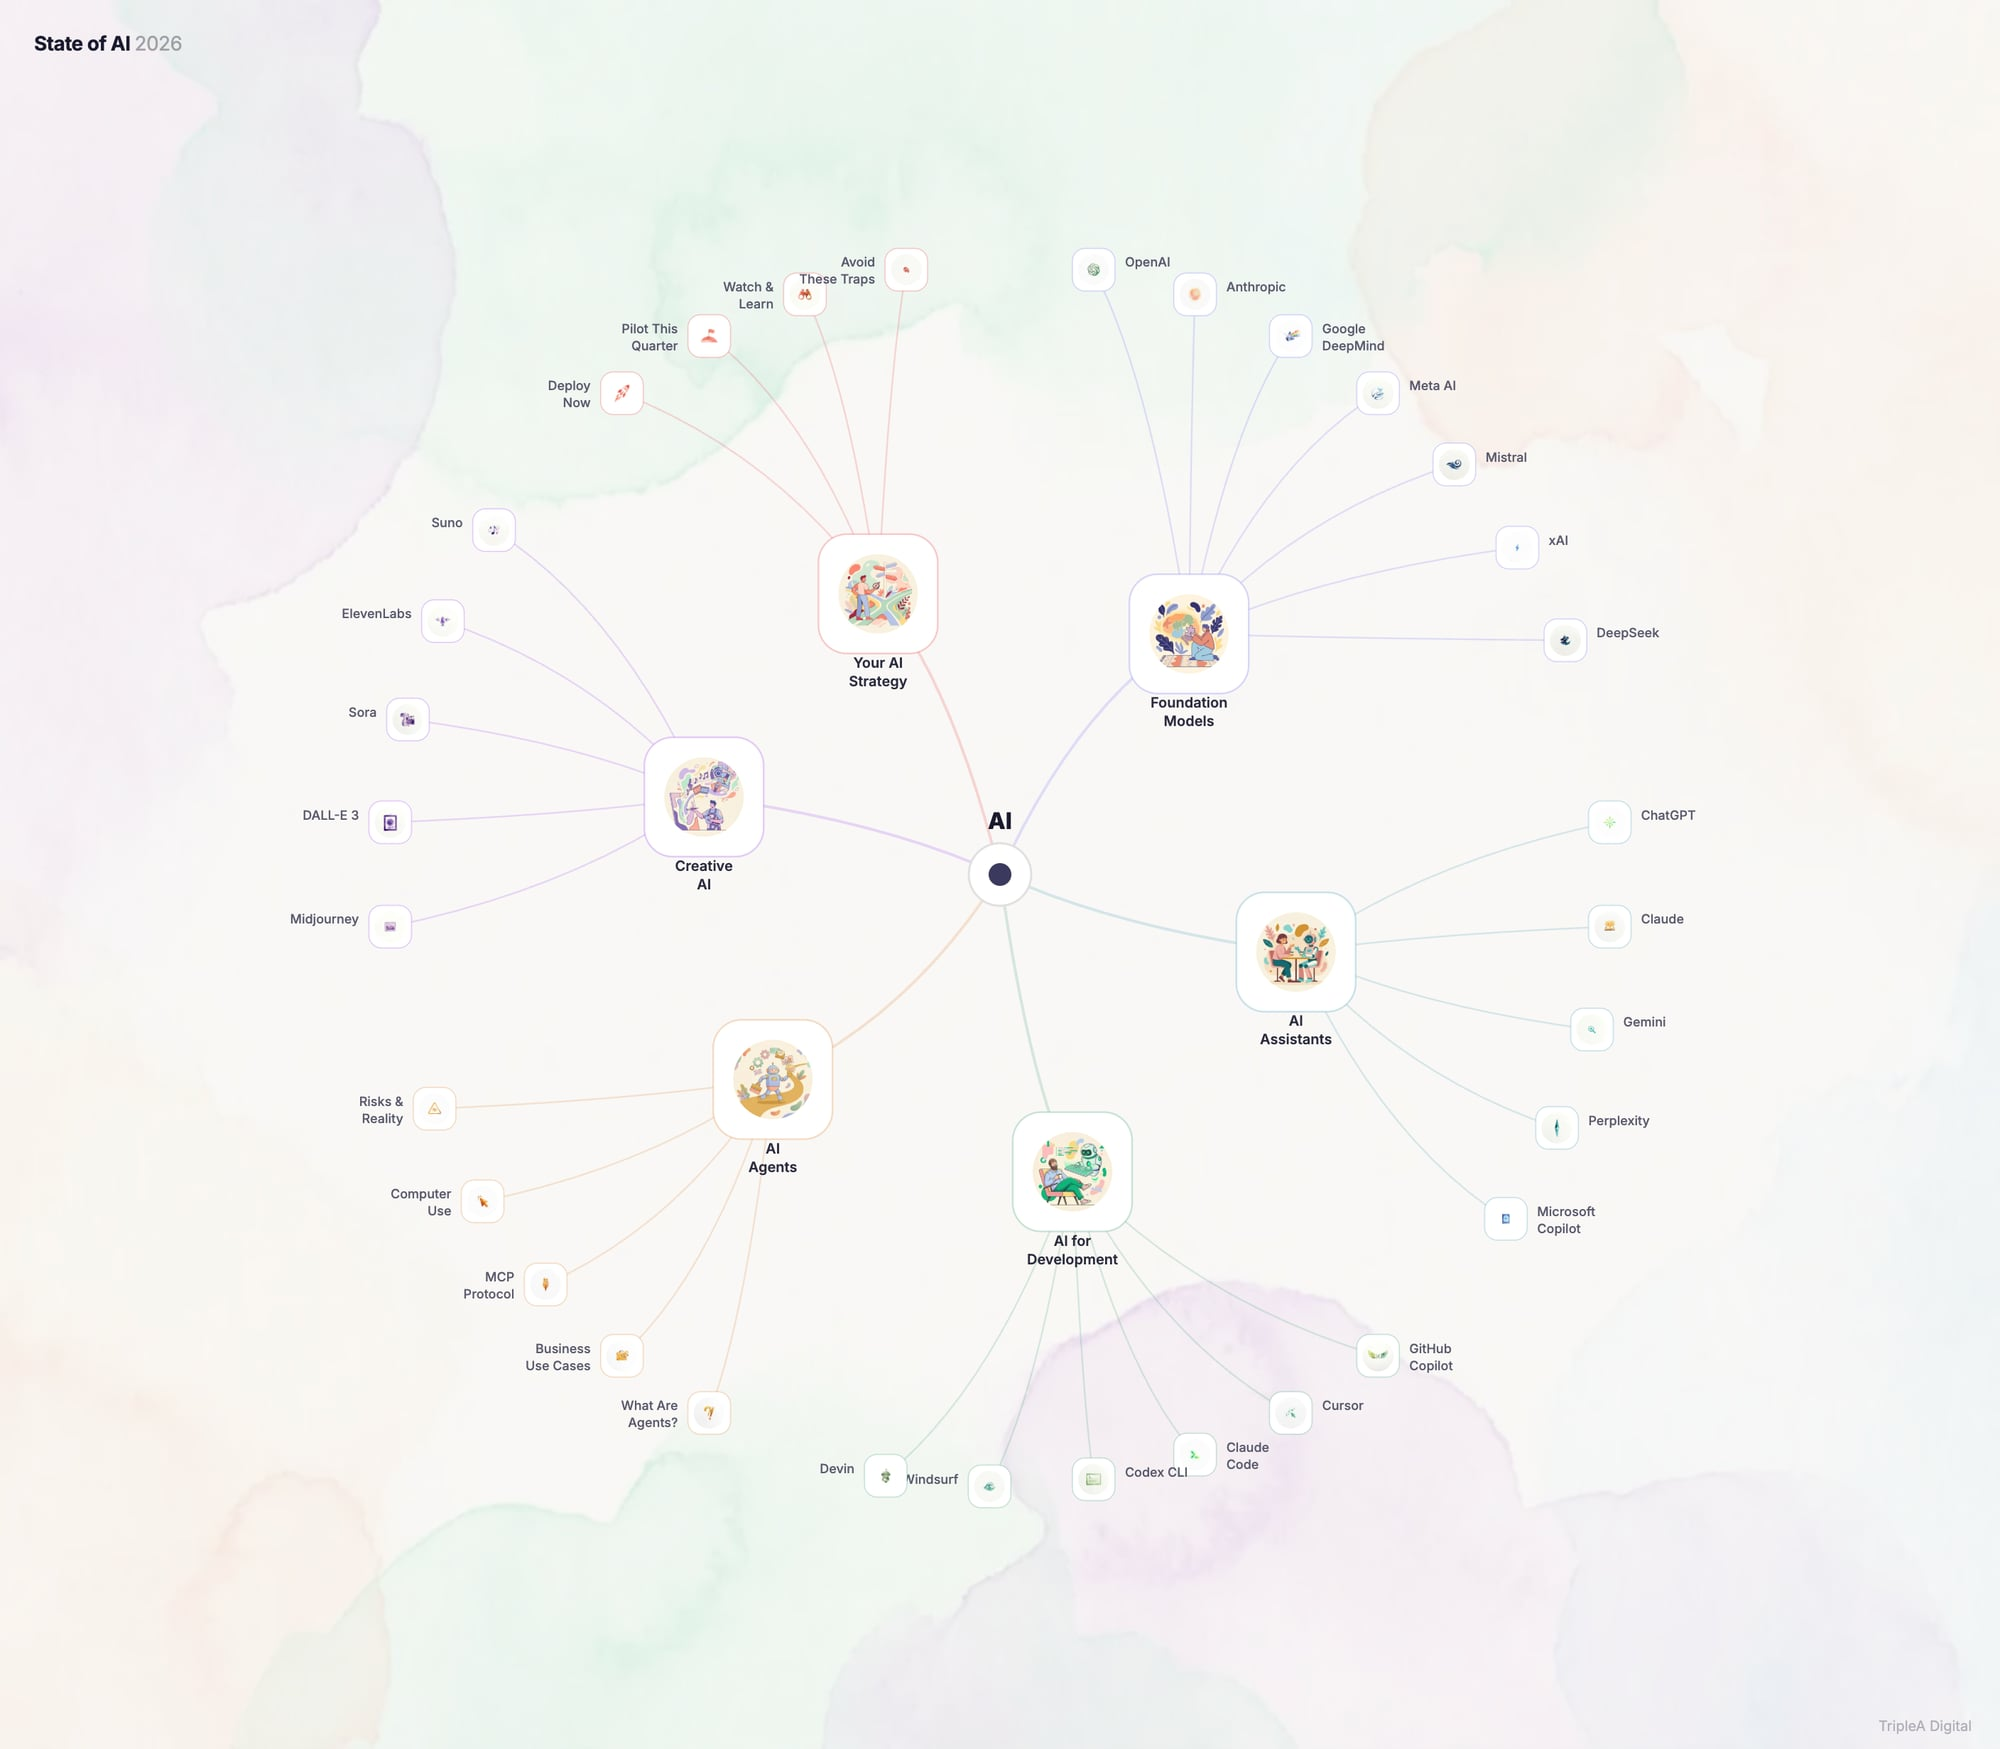
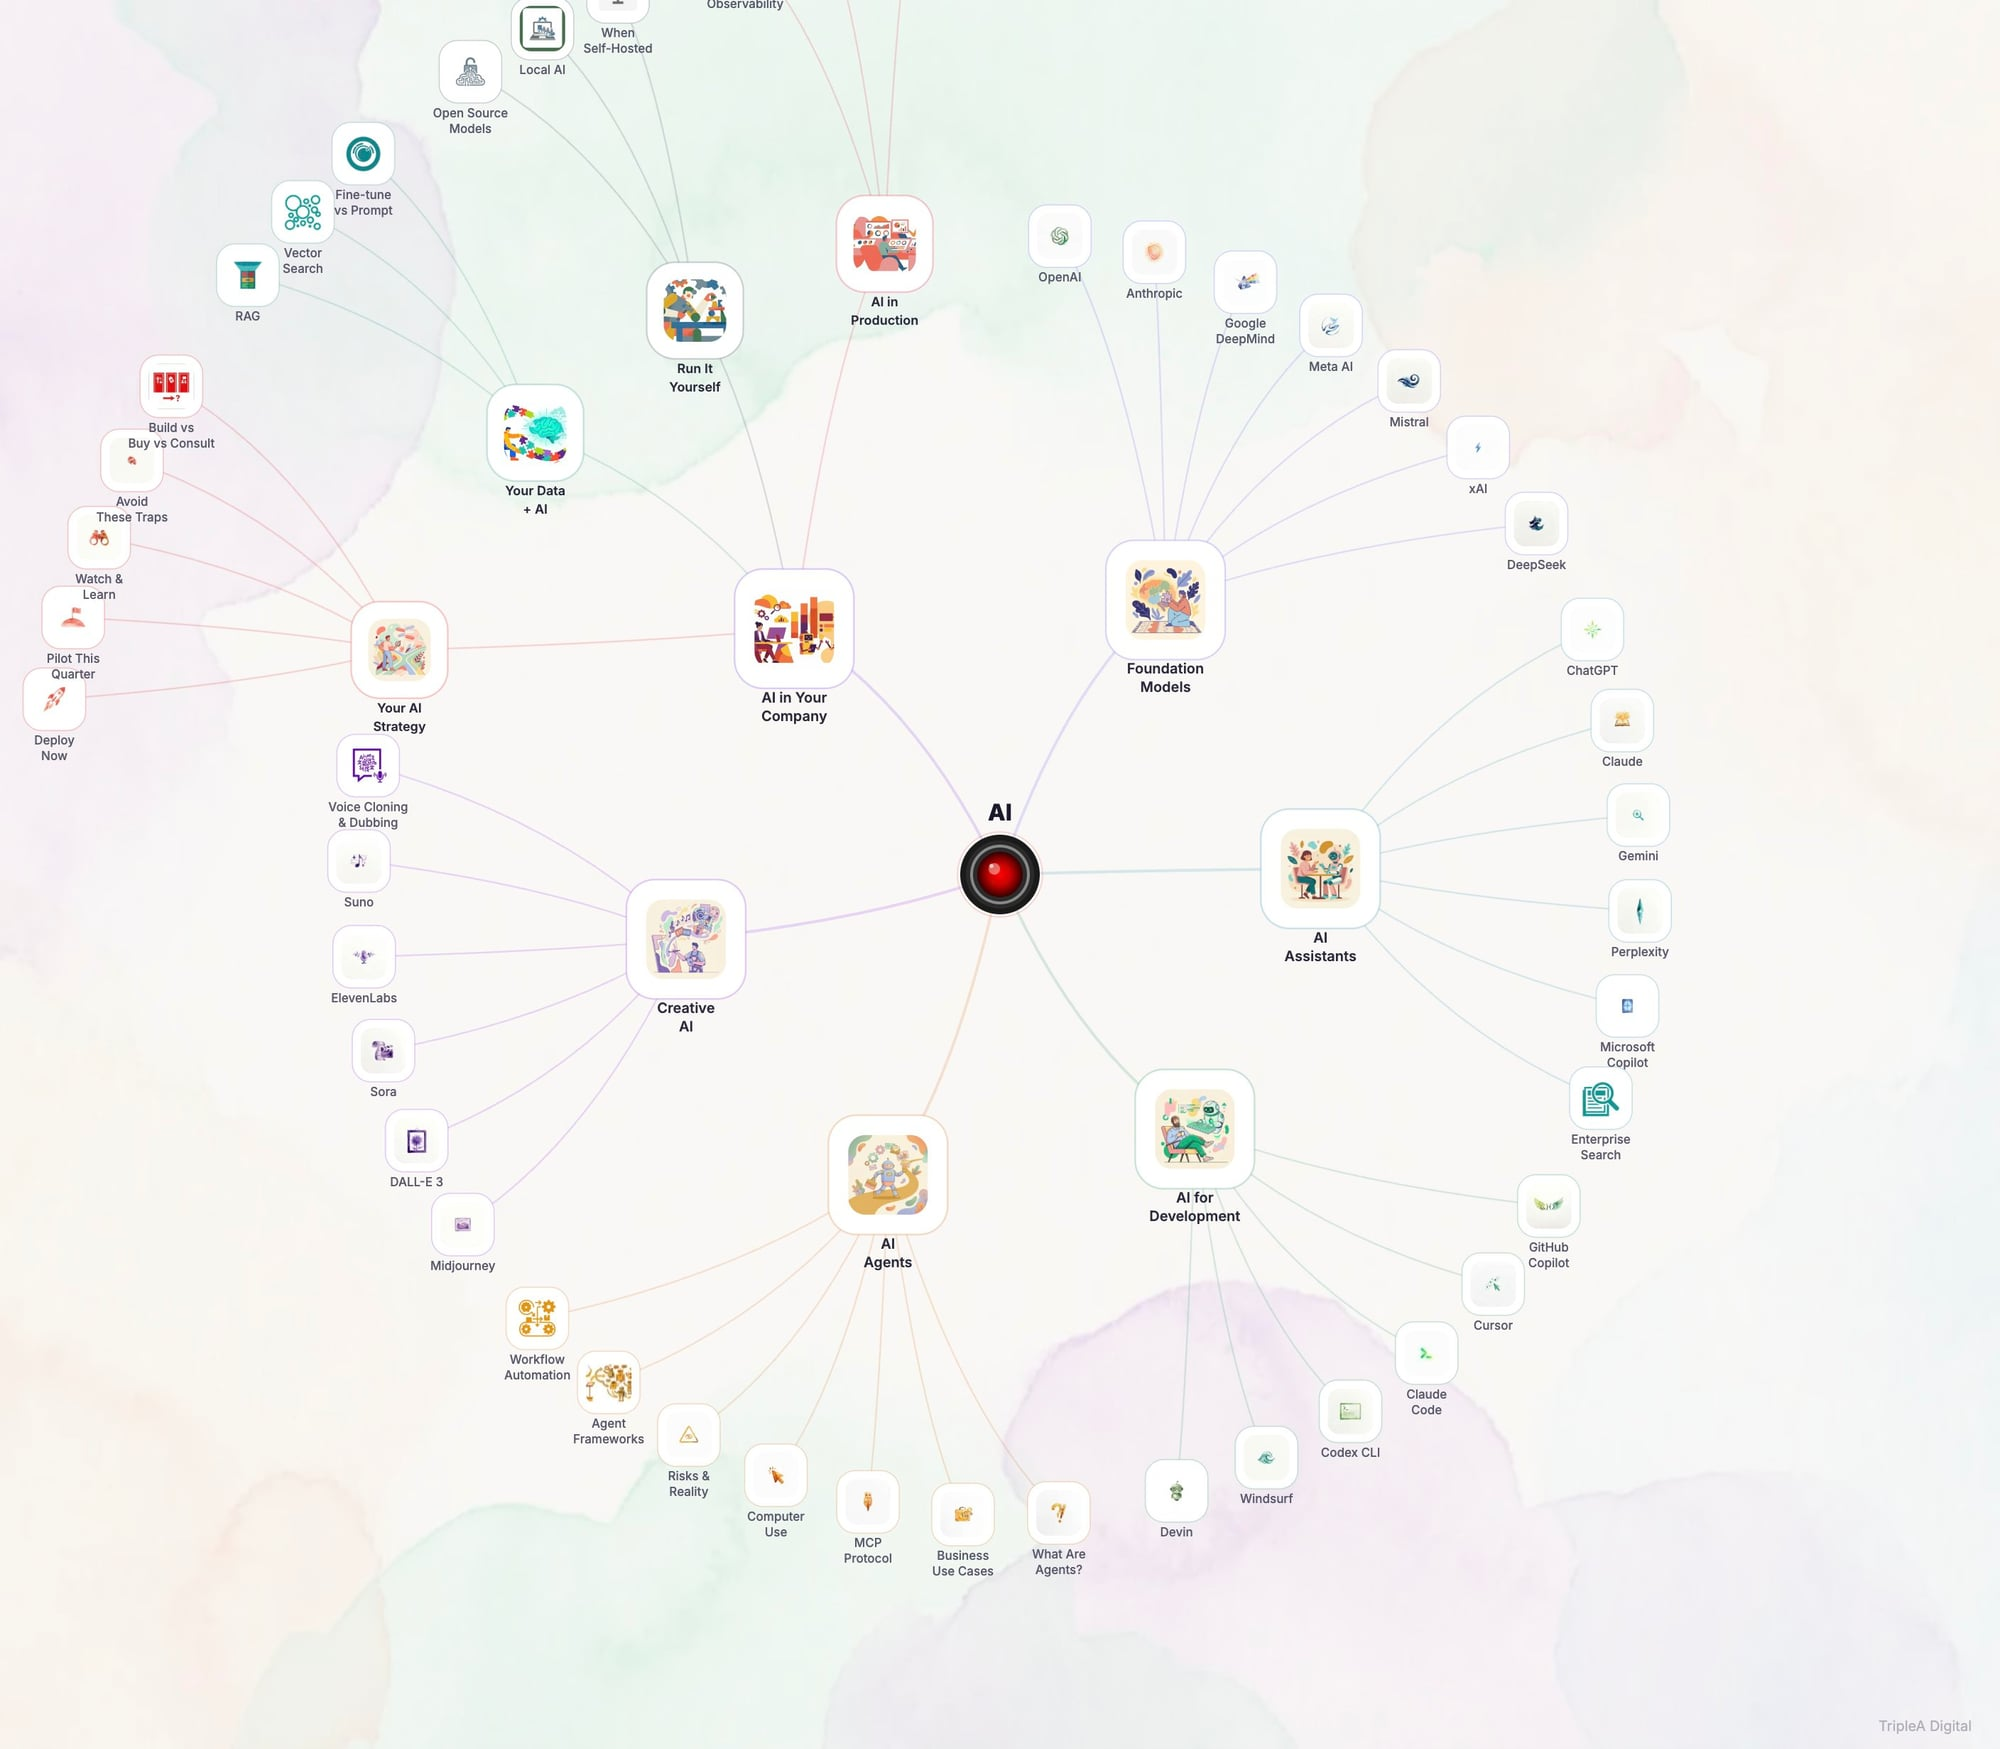
v19: mobile responsive (wider tree, bottom sheet, auto-fit), OG update, CF cache purge, aliases

diff --git a/index.html b/index.html
@@ -295,7 +295,8 @@ var svg = d3.select('body').append('svg').attr('width', W).attr('height', H);
 var g = svg.append('g'), gL = g.append('g'), gN = g.append('g');
 
 var root = d3.hierarchy(toH(data));
-d3.tree().size([2 * Math.PI, Math.min(W, H) * 0.55])
+var treeR = (W < 768) ? Math.max(W, H) * 0.95 : Math.min(W, H) * 0.55;
+d3.tree().size([2 * Math.PI, treeR])
   .separation(function(a, b) {
     var sib = a.parent === b.parent;
     if (a.depth === 1) return sib ? 2.2 : 3.8;
